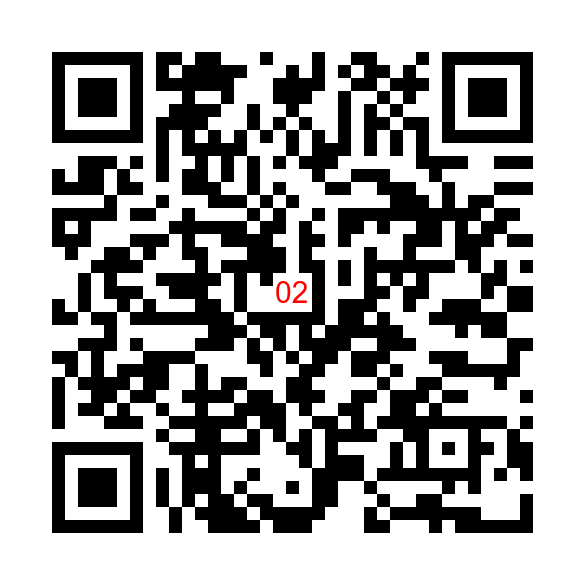
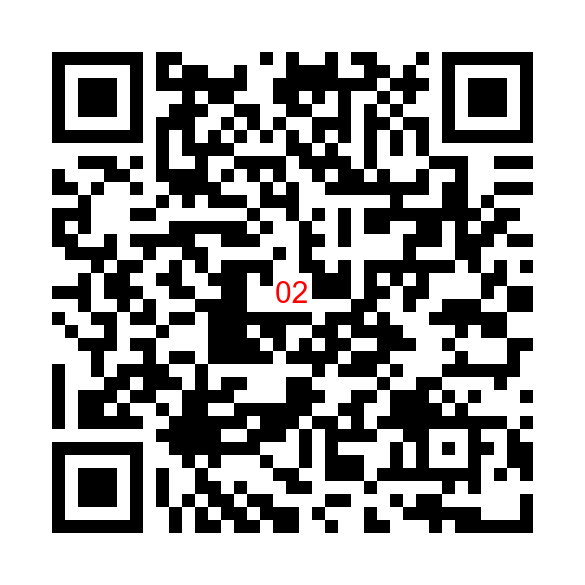
New codes for 24

diff --git a/docs/setup.js b/docs/setup.js
@@ -7,31 +7,31 @@ Reveal.initialize({
       mandatorygroup: true,
       dateFilter: window.location.hostname != "allt.localhost",
       groups: {
-        "ce7eef": {tags: ["dec01"]},
-        "a891d3": {tags: ["dec01", "dec02"]},
-        "76d5cf": {tags: ["dec01", "dec02", "dec03"]},
-        "5d20b0": {tags: ["dec01", "dec02", "dec03", "dec04"]},
-        "4b6280": {tags: ["dec01", "dec02", "dec03", "dec04", "dec05"]},
-        "20e4e5": {tags: ["dec01", "dec02", "dec03", "dec04", "dec05", "dec06"]},
-        "afd373": {tags: ["dec01", "dec02", "dec03", "dec04", "dec05", "dec06", "dec07"]},
-        "c62a8d": {tags: ["dec01", "dec02", "dec03", "dec04", "dec05", "dec06", "dec07", "dec08"]},
-        "887b31": {tags: ["dec01", "dec02", "dec03", "dec04", "dec05", "dec06", "dec07", "dec08", "dec09"]},
-        "75cf03": {tags: ["dec01", "dec02", "dec03", "dec04", "dec05", "dec06", "dec07", "dec08", "dec09", "dec10"]},
-        "3e9fbc": {tags: ["dec01", "dec02", "dec03", "dec04", "dec05", "dec06", "dec07", "dec08", "dec09", "dec10", "dec11"]},
-        "666ecb": {tags: ["dec01", "dec02", "dec03", "dec04", "dec05", "dec06", "dec07", "dec08", "dec09", "dec10", "dec11", "dec12"]},
-        "34b83e": {tags: ["dec01", "dec02", "dec03", "dec04", "dec05", "dec06", "dec07", "dec08", "dec09", "dec10", "dec11", "dec12", "dec13"]},
-        "08535b": {tags: ["dec01", "dec02", "dec03", "dec04", "dec05", "dec06", "dec07", "dec08", "dec09", "dec10", "dec11", "dec12", "dec13", "dec14"]},
-        "99ce95": {tags: ["dec01", "dec02", "dec03", "dec04", "dec05", "dec06", "dec07", "dec08", "dec09", "dec10", "dec11", "dec12", "dec13", "dec14", "dec15"]},
-        "1d5df2": {tags: ["dec01", "dec02", "dec03", "dec04", "dec05", "dec06", "dec07", "dec08", "dec09", "dec10", "dec11", "dec12", "dec13", "dec14", "dec15", "dec16"]},
-        "639ecc": {tags: ["dec01", "dec02", "dec03", "dec04", "dec05", "dec06", "dec07", "dec08", "dec09", "dec10", "dec11", "dec12", "dec13", "dec14", "dec15", "dec16", "dec17"]},
-        "90d088": {tags: ["dec01", "dec02", "dec03", "dec04", "dec05", "dec06", "dec07", "dec08", "dec09", "dec10", "dec11", "dec12", "dec13", "dec14", "dec15", "dec16", "dec17", "dec18"]},
-        "149890": {tags: ["dec01", "dec02", "dec03", "dec04", "dec05", "dec06", "dec07", "dec08", "dec09", "dec10", "dec11", "dec12", "dec13", "dec14", "dec15", "dec16", "dec17", "dec18", "dec19"]},
-        "e90352": {tags: ["dec01", "dec02", "dec03", "dec04", "dec05", "dec06", "dec07", "dec08", "dec09", "dec10", "dec11", "dec12", "dec13", "dec14", "dec15", "dec16", "dec17", "dec18", "dec19", "dec20"]},
-        "27d556": {tags: ["dec01", "dec02", "dec03", "dec04", "dec05", "dec06", "dec07", "dec08", "dec09", "dec10", "dec11", "dec12", "dec13", "dec14", "dec15", "dec16", "dec17", "dec18", "dec19", "dec20", "dec21"]},
-        "38a824": {tags: ["dec01", "dec02", "dec03", "dec04", "dec05", "dec06", "dec07", "dec08", "dec09", "dec10", "dec11", "dec12", "dec13", "dec14", "dec15", "dec16", "dec17", "dec18", "dec19", "dec20", "dec21", "dec22"]},
-        "0a3295": {tags: ["dec01", "dec02", "dec03", "dec04", "dec05", "dec06", "dec07", "dec08", "dec09", "dec10", "dec11", "dec12", "dec13", "dec14", "dec15", "dec16", "dec17", "dec18", "dec19", "dec20", "dec21", "dec22", "dec23"]},
-        "59aff9": {tags: ["dec01", "dec02", "dec03", "dec04", "dec05", "dec06", "dec07", "dec08", "dec09", "dec10", "dec11", "dec12", "dec13", "dec14", "dec15", "dec16", "dec17", "dec18", "dec19", "dec20", "dec21", "dec22", "dec23", "dec24"]},
-        "tuttifrutti": {tags: ["dec01", "dec02", "dec03", "dec04", "dec05", "dec06", "dec07", "dec08", "dec09", "dec10", "dec11", "dec12", "dec13", "dec14", "dec15", "dec16", "dec17", "dec18", "dec19", "dec20", "dec21", "dec22", "dec23", "dec24"]}
+        "dd9752": {tags: ["dec01"]},
+        "f5b5cc": {tags: ["dec02"]},
+        "a4c231": {tags: ["dec03"]},
+        "7de074": {tags: ["dec04"]},
+        "30a9db": {tags: ["dec05"]},
+        "4e21f0": {tags: ["dec06"]},
+        "08aad9": {tags: ["dec07"]},
+        "4a311a": {tags: ["dec08"]},
+        "e404d0": {tags: ["dec09"]},
+        "da407b": {tags: ["dec10"]},
+        "e77e1a": {tags: ["dec11"]},
+        "23f76e": {tags: ["dec12"]},
+        "7ee754": {tags: ["dec13"]},
+        "0248d2": {tags: ["dec14"]},
+        "5cd24d": {tags: ["dec15"]},
+        "5f07ee": {tags: ["dec16"]},
+        "25f4e4": {tags: ["dec17"]},
+        "d94965": {tags: ["dec18"]},
+        "a03784": {tags: ["dec19"]},
+        "8c1100": {tags: ["dec20"]},
+        "571640": {tags: ["dec21"]},
+        "92ac0a": {tags: ["dec22"]},
+        "914c3e": {tags: ["dec23"]},
+        "5779fb": {tags: ["dec24"]},
+        "tuttifrutti": {tags: ["dec24"]}
       }
     },
   dependencies: [{ src: 'assets/reveal.js/plugin/external/external.js', condition: function() { return !!document.querySelector( '[data-external]' ); } } ],
